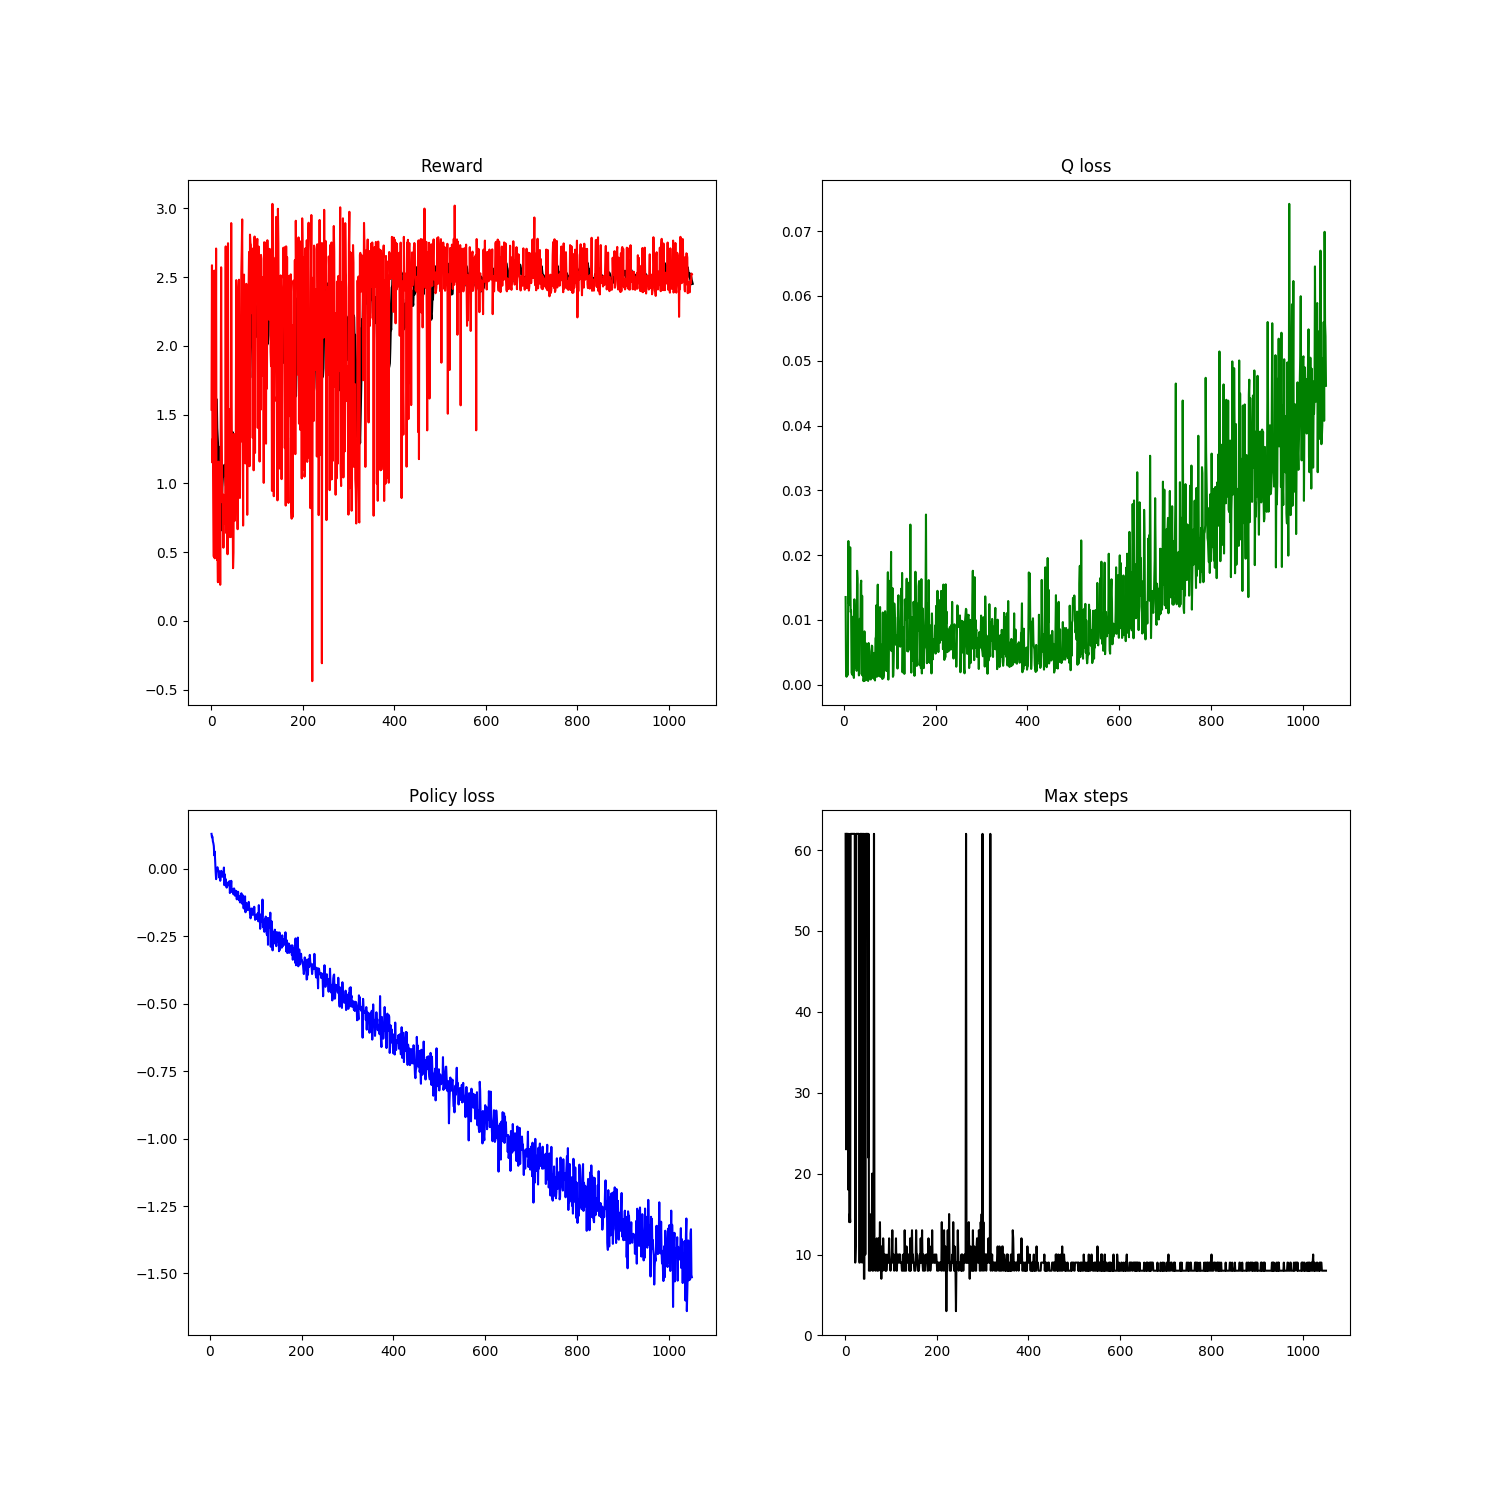
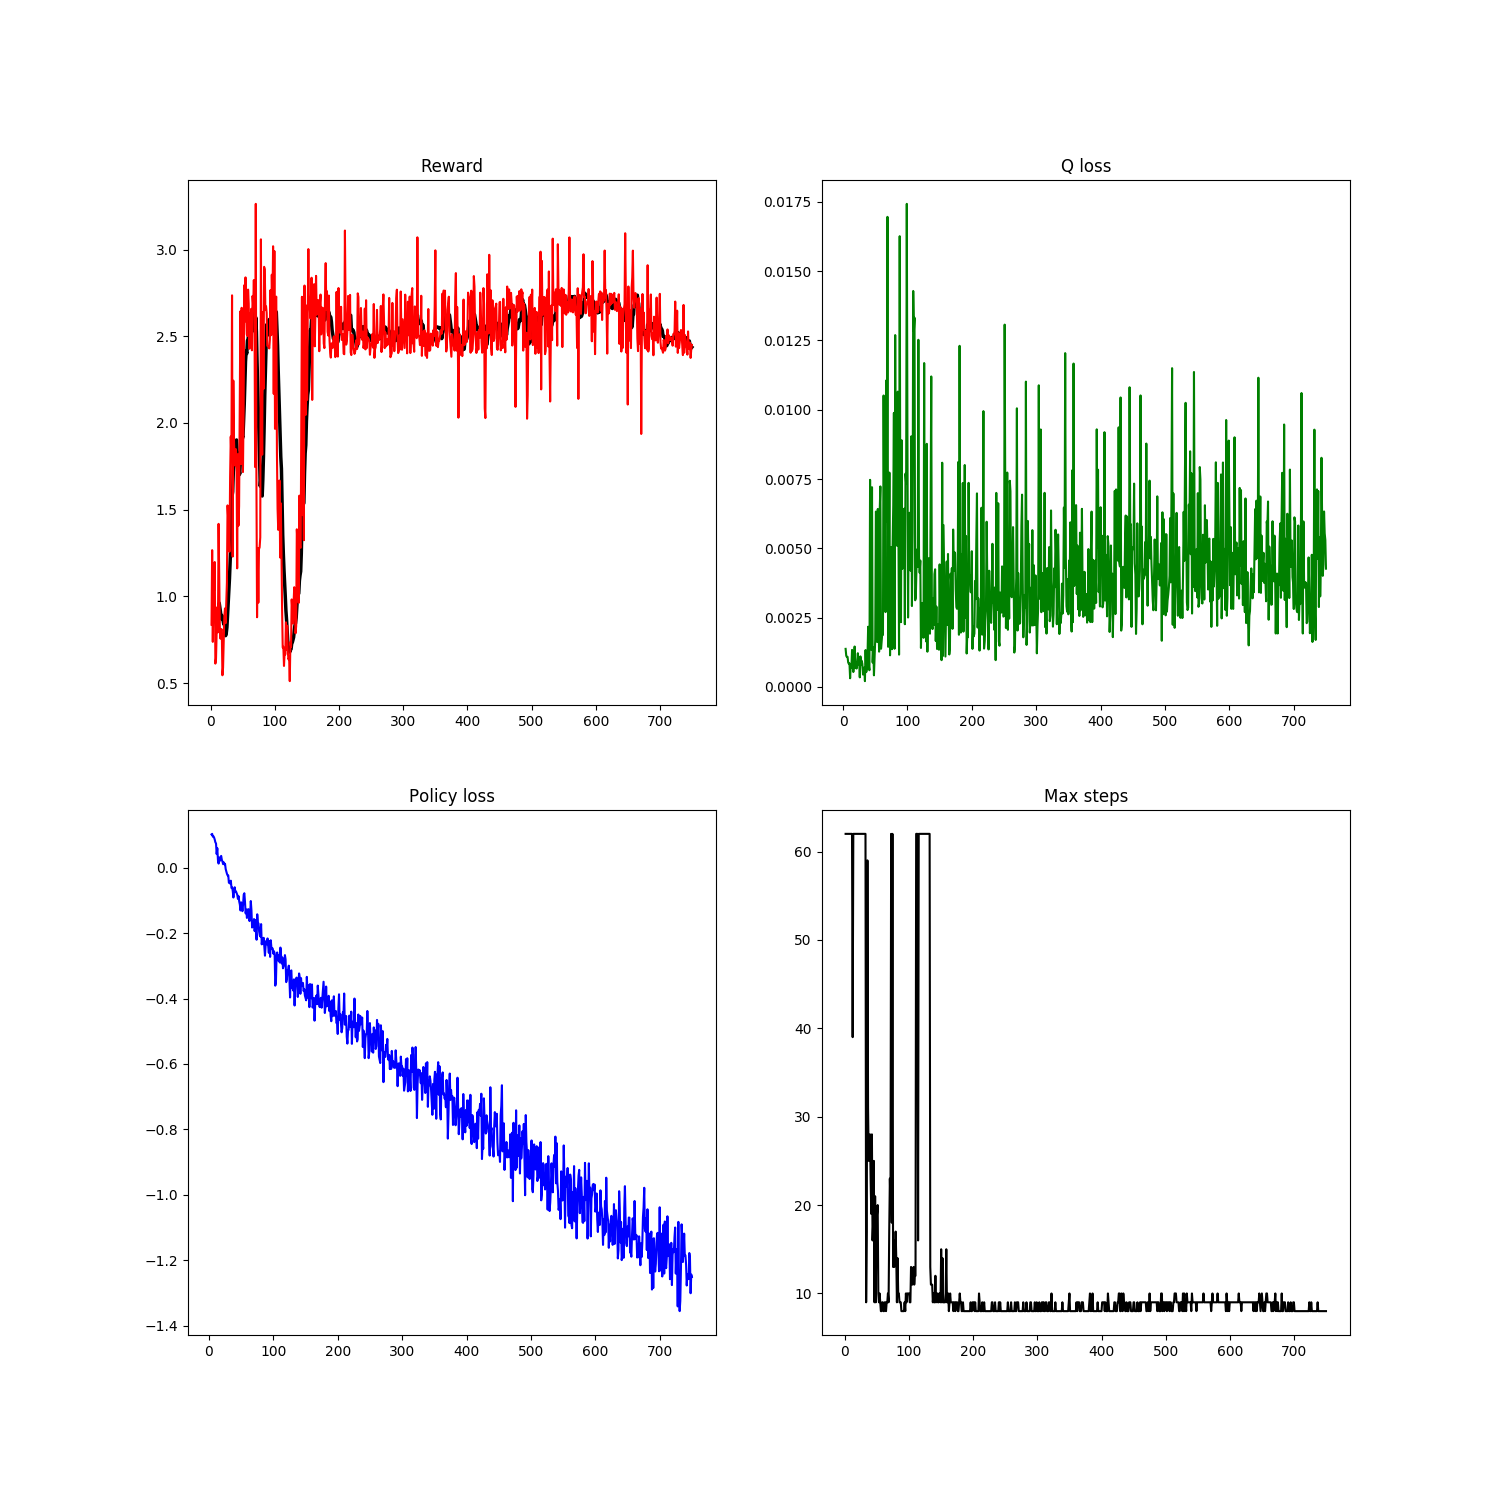
increase state space to 5, still works

diff --git a/src/learn_to_manipulate/controller.py b/src/learn_to_manipulate/controller.py
@@ -202,7 +202,7 @@ class Controller(object):
         block_angle = np.arccos(block_pose.orientation.w)*2
         if block_pose.orientation.z < 0:
             block_angle *= -1.
-        return np.array([0.0, 0.0, block_angle, xdiff, ydiff])
+        return np.array([blockx, blocky, block_angle, self.current_pose['x'], self.current_pose['y']])
 
     def execute_action(self, action, step):
         rospy.wait_for_service('/gazebo/get_model_state')
@@ -250,7 +250,6 @@ class Controller(object):
         if result['success']:
             reward += 1.0
         return reward
-
 
     def go_to_pose(self, pose):
         pose_goal = geometry_msgs.msg.Pose()

diff --git a/scripts/run_sim.py b/scripts/run_sim.py
@@ -30,7 +30,7 @@ if __name__ == "__main__" :
     #saved_controller_file = '/home/marcrigter/pCloudDrive/Development/LearnToManipulate/data/initial_tests/similar_cases_teleop.pkl'
     sim.add_controllers({'ddpg':{}})
 
-    case_name = 'harder_rl_attempt_aug11'
+    case_name = 'rl_attempt_aug11'
     dense_rewards = []
     results = []
     for i in range(2000):
